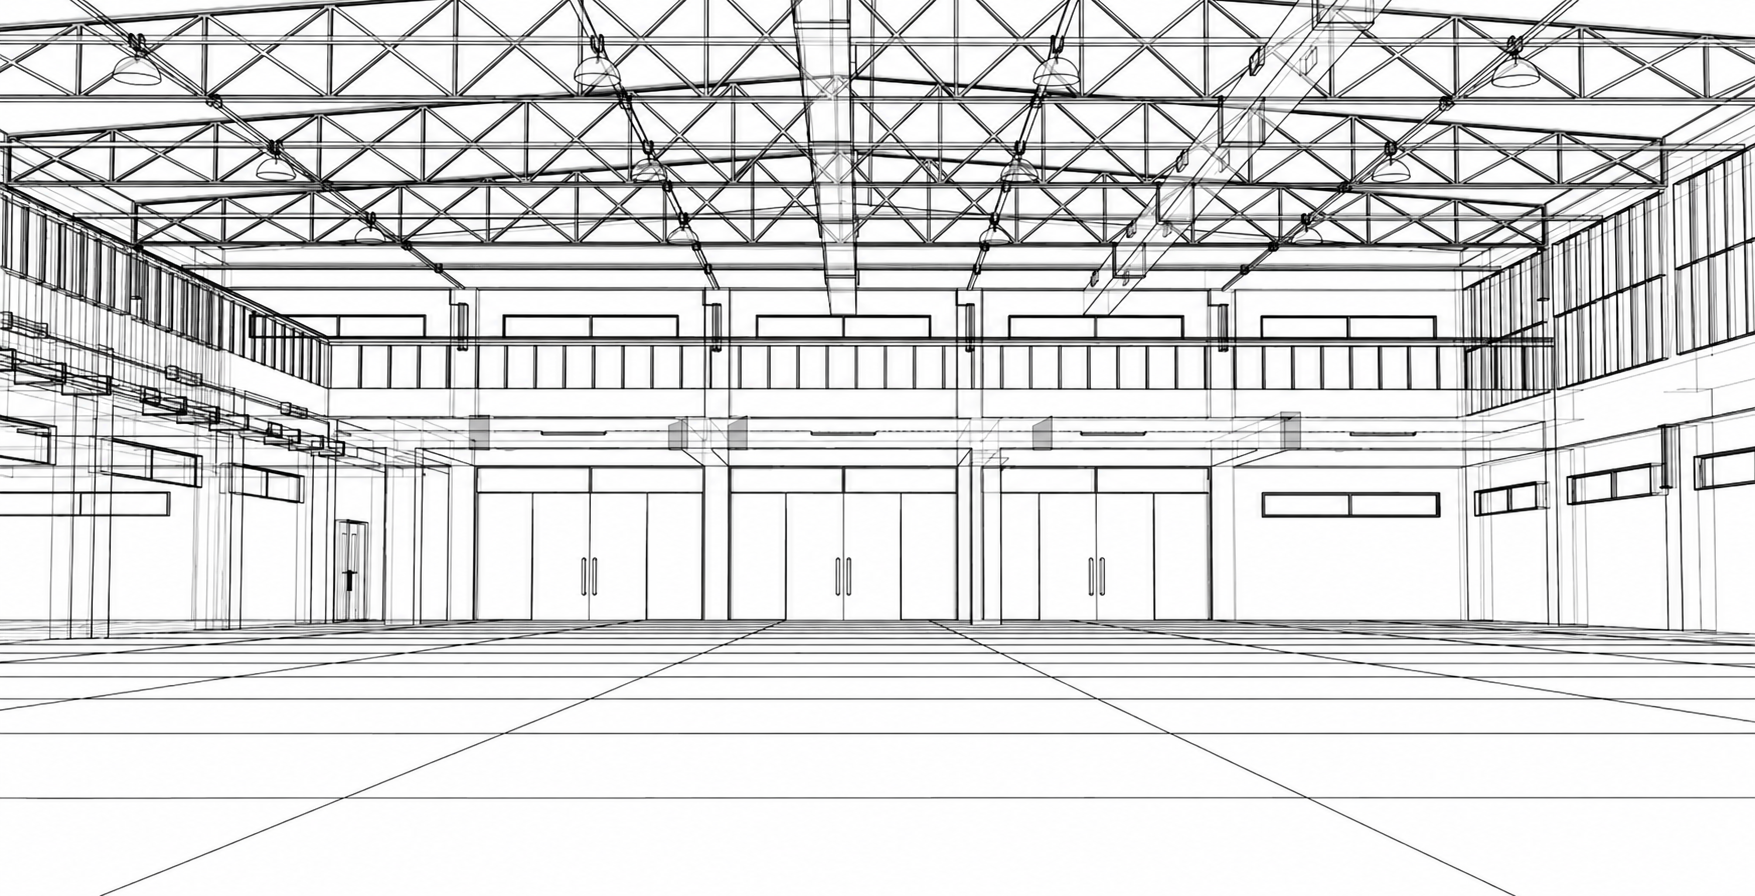
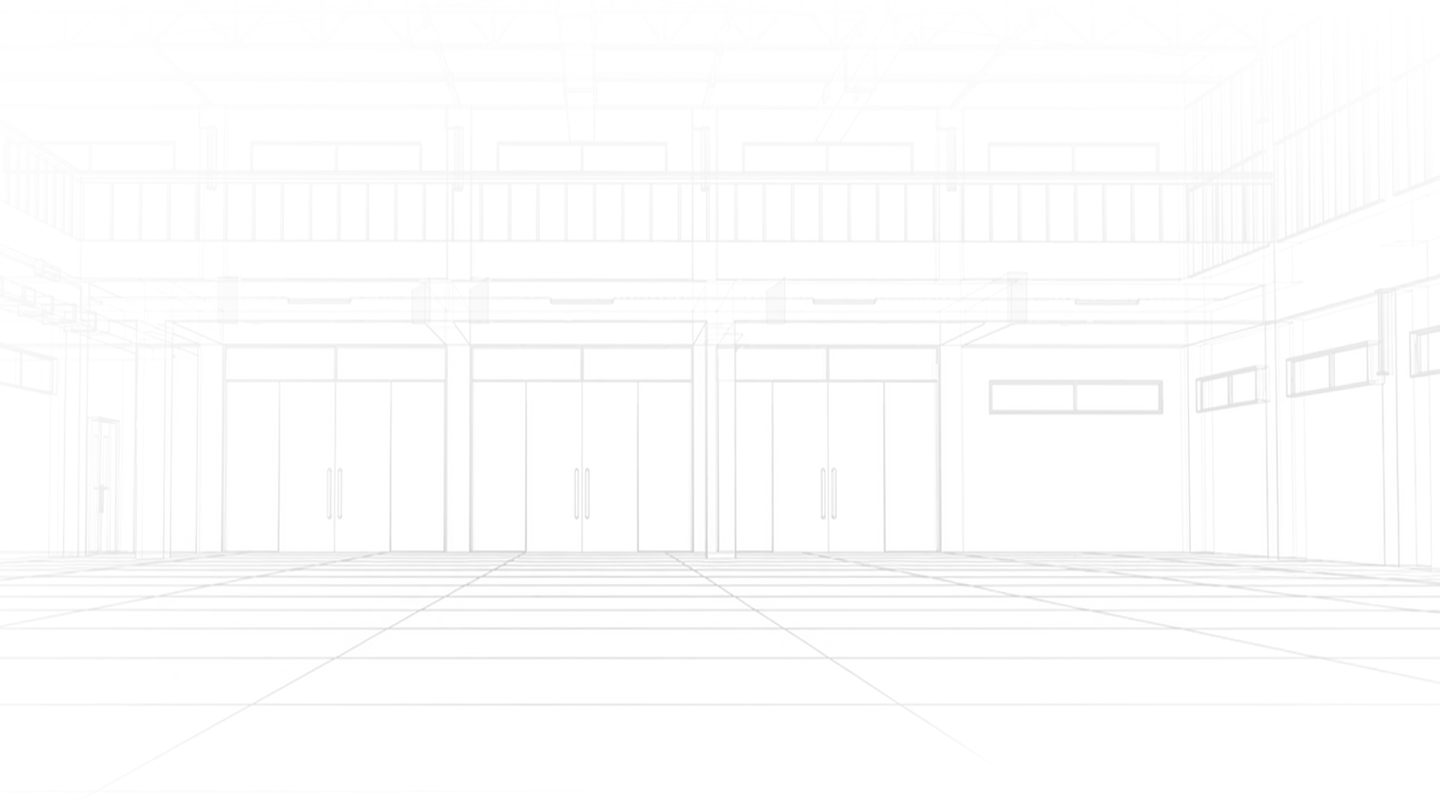
feat: implement ProductSeriesCard component and update ProductHeroSlider with new images

diff --git a/app/components/products/ProductHeroSlider.tsx b/app/components/products/ProductHeroSlider.tsx
@@ -12,32 +12,32 @@ const heroSlides = [
     id: "lift",
     title: "Robots Ready to",
     accent: "Lift",
-    image: "PSR-1000R_1.png",
-    imageClass: "scale-[1.05] -translate-x-[3%] md:translate-x-[3%]",
+    image: "lift.png",
+    imageClass: "scale-[1] -translate-x-[3%] md:translate-x-[3%]",
     tags: ["Ready to Lift", "Lifting"],
   },
   {
     id: "pull",
     title: "Robots Ready to",
     accent: "Pull",
-    image: "hero-image-2.png",
-    imageClass: "scale-[1.24] translate-x-[4%] md:translate-x-[10%]",
+    image: "pull.png",
+    imageClass: "scale-[1] translate-x-[4%] md:translate-x-[10%]",
     tags: ["Ready to Pull", "Pulling"],
   },
   {
     id: "grasp",
     title: "Robots Ready to",
     accent: "Grasp",
-    image: "Group-1321315879.png",
-    imageClass: "scale-[1.42] translate-x-[9%] md:translate-x-[15%]",
+    image: "grab.png",
+    imageClass: "scale-[1] translate-x-[9%] md:translate-x-[15%]",
     tags: ["Ready to Grasp", "Grasping"],
   },
   {
     id: "move",
     title: "Robots Ready to",
     accent: "Move",
-    image: "hero-image-4.png",
-    imageClass: "scale-[1.22] translate-x-[3%] md:translate-x-[9%]",
+    image: "move.png",
+    imageClass: "scale-[1] translate-x-[3%] md:translate-x-[9%]",
     tags: ["Ready to Move", "Moving"],
   },
 ];
@@ -52,27 +52,38 @@ const defaultProductHeroTagPositions: ProductHeroTagPosition[] = [
   { left: "62%", top: "58%" },
 ];
 
-const productHeroTagPositionsBySlide: Record<string, Record<string, ProductHeroTagPosition>> = {
+const productHeroTagPositionsBySlide: Record<
+  string,
+  Record<string, ProductHeroTagPosition>
+> = {
   lift: {
     "Ready to Lift": { left: "54%", top: "64%" },
-    "Lifting": { left: "42%", top: "35%" },
+    Lifting: { left: "42%", top: "35%" },
   },
   pull: {
     "Ready to Pull": { left: "52%", top: "65%" },
-    "Pulling": { left: "30%", top: "35%" },
+    Pulling: { left: "30%", top: "35%" },
   },
   grasp: {
     "Ready to Grasp": { left: "52%", top: "48%" },
-    "Grasping": { left: "49%", top: "5%" },
+    Grasping: { left: "49%", top: "5%" },
   },
   move: {
     "Ready to Move": { left: "5%", top: "54%" },
-    "Moving": { left: "68%", top: "68%" },
+    Moving: { left: "68%", top: "68%" },
   },
 };
 
-function getProductHeroTagPosition(slideId: string, tag: string, index: number): ProductHeroTagPosition {
-  return productHeroTagPositionsBySlide[slideId]?.[tag] ?? defaultProductHeroTagPositions[index] ?? defaultProductHeroTagPositions[0];
+function getProductHeroTagPosition(
+  slideId: string,
+  tag: string,
+  index: number,
+): ProductHeroTagPosition {
+  return (
+    productHeroTagPositionsBySlide[slideId]?.[tag] ??
+    defaultProductHeroTagPositions[index] ??
+    defaultProductHeroTagPositions[0]
+  );
 }
 
 export function ProductHeroSlider() {
@@ -98,8 +109,13 @@ export function ProductHeroSlider() {
   }, []);
 
   return (
-    <section className="bg-[#fafafa]">
-      <div className="site-container grid min-h-[calc(100svh-60px)] items-center gap-8 py-12 md:min-h-[calc(100svh-110px)] md:grid-cols-2 md:py-16">
+    <section
+      // className="bg-[#fafafa]"
+      style={{
+        backgroundImage: `url('${imagePath}/products/hero-bg.png')`,
+      }}
+    >
+      <div className="site-container grid  items-center gap-8 py-12  md:grid-cols-2 md:py-16">
         <div>
           <ScrollReveal>
             <h1 className="text-[48px] font-bold leading-[1.06] tracking-tight md:text-[60px] xl:whitespace-nowrap">
@@ -164,7 +180,7 @@ export function ProductHeroSlider() {
           </div>
         </div>
 
-        <div className="relative min-h-[430px] md:min-h-[560px] xl:min-h-[620px] w-full">
+        <div className="relative min-h-[430px] md:min-h-[500px] xl:min-h-[520px] w-full">
           <AnimatePresence mode="popLayout" initial={false}>
             <m.div
               key={active.image}
@@ -175,12 +191,12 @@ export function ProductHeroSlider() {
               transition={{ duration: 0.56, ease: [0.22, 1, 0.36, 1] }}
             >
               <Image
-                src={`${imagePath}${active.image}`}
+                src={`${imagePath}products/${active.image}`}
                 alt={`${active.title} ${active.accent}`}
                 fill
                 priority={activeIndex === 0}
-                sizes="(max-width: 768px) 100vw, 780px"
-                className={`object-contain object-right drop-shadow-[0_26px_40px_rgba(1,31,64,.14)] p-6 ${active.imageClass}`}
+                sizes="(max-width: 520px) 50vw, 520px"
+                className={`object-contain object-bottom-right drop-shadow-[0_26px_40px_rgba(1,31,64,.14)] p-6 ${active.imageClass}`}
               />
               <div className="pointer-events-none absolute inset-0 z-20">
                 {active.tags.map((tag, index) => (

diff --git a/app/components/products/ProductSeriesCard.tsx b/app/components/products/ProductSeriesCard.tsx
@@ -1,0 +1,69 @@
+import { ArrowRight } from "lucide-react";
+import Image from "next/image";
+import { imagePath } from "../home/assets";
+import { seriesCards } from "./product-series-data";
+
+function ProductSeriesCard() {
+  return (
+    <section className="bg-white py-12">
+      <div className="site-container">
+        <div className="grid gap-5 md:grid-cols-3">
+          {seriesCards.map((series) => (
+            <article
+              key={series.title}
+              className="relative min-h-[250px] overflow-hidden rounded-md bg-[#011f40] p-5 text-white md:min-h-[285px]"
+            >
+              <Image
+                src={`${imagePath}${series.backgroundImage}`}
+                alt=""
+                fill
+                sizes="(max-width: 768px) 100vw, 33vw"
+                className="object-cover"
+              />
+              <div className="absolute inset-0 bg-black/45" />
+              <div className="absolute inset-0 bg-[linear-gradient(180deg,rgba(0,0,0,.72),rgba(0,0,0,.18)_58%,rgba(0,0,0,.42))]" />
+              <div className="relative z-10 flex min-h-[210px] flex-col items-start md:min-h-[245px]">
+                <h3 className="text-[22px] font-semibold leading-[1.15]">
+                  {series.title}
+                </h3>
+                <p className="mt-2 line-clamp-3 max-w-[300px] text-[11px] font-normal leading-[15px] text-white/86">
+                  {series.copy}
+                </p>
+                <div className="mt-3 flex flex-wrap gap-1.5">
+                  {series.tags.map((tag) => (
+                    <span
+                      key={tag}
+                      className="rounded-sm bg-white px-3 py-1 text-[11px] font-medium leading-none text-[#011f40]"
+                    >
+                      {tag}
+                    </span>
+                  ))}
+                </div>
+                <a
+                  href={series.href}
+                  className="group mt-auto inline-flex h-8 items-center gap-2 rounded-sm bg-[#005ead] px-3 text-[10px] font-medium uppercase tracking-wide text-white transition hover:bg-[#014f91]"
+                >
+                  Explore
+                  <span className="relative flex size-3 overflow-hidden">
+                    <ArrowRight
+                      aria-hidden="true"
+                      className="size-3 transition group-hover:translate-x-4"
+                      strokeWidth={2}
+                    />
+                    <ArrowRight
+                      aria-hidden="true"
+                      className="absolute size-3 -translate-x-4 transition group-hover:translate-x-0"
+                      strokeWidth={2}
+                    />
+                  </span>
+                </a>
+              </div>
+            </article>
+          ))}
+        </div>
+      </div>
+    </section>
+  );
+}
+
+export default ProductSeriesCard;

diff --git a/app/components/products/ProductSeriesStickyStack.tsx b/app/components/products/ProductSeriesStickyStack.tsx
@@ -13,36 +13,7 @@ import {
 import Image from "next/image";
 import { useRef, useState } from "react";
 import { imagePath } from "../home/assets";
-
-const seriesCards = [
-  {
-    index: "01",
-    title: "PSR Series",
-    copy: "Our PSR series automates pallet stacking, pallet transport, and trolley movement for warehouse automation for improved inventory visibility, operational efficiency, productivity, and intralogistics performance.",
-    tags: ["Stacking", "G2G"],
-    backgroundImage: "psr-main.png",
-    href: "/psr-series",
-    marker: "PSR",
-  },
-  {
-    index: "02",
-    title: "AR Series",
-    copy: "Our AR Series automates diverse applications through one platform and multiple top modules.",
-    tags: ["Tugging", "Lifting", "Tunneling"],
-    backgroundImage: "PSR-Series.jpg",
-    href: "/ar-series",
-    marker: "AR",
-  },
-  {
-    index: "03",
-    title: "AGV Series",
-    copy: "Our AGV Series streamlines point-to-point material transport through compact, QR-guided automation.",
-    tags: ["Lifting", "Sorting"],
-    backgroundImage: "AGV.jpg",
-    href: "/agv-series",
-    marker: "AGV",
-  },
-];
+import { seriesCards } from "./product-series-data";
 
 export function ProductSeriesStickyStack() {
   const wrapperRef = useRef<HTMLDivElement>(null);

diff --git a/app/products/page.tsx b/app/products/page.tsx
@@ -2,11 +2,8 @@ import type { Metadata } from "next";
 import { ProductFaqSection } from "../components/products/ProductFaqSection";
 import { ProductFeaturesSection } from "../components/products/ProductFeaturesSection";
 import { ProductHeroSlider } from "../components/products/ProductHeroSlider";
-import {
-  ProductSeriesStaticMobile,
-  ProductSeriesStickyStack,
-} from "../components/products/ProductSeriesStickyStack";
 import { ProductsCta } from "../components/products/ProductsCta";
+import ProductSeriesCard from "../components/products/ProductSeriesCard";
 
 export const metadata: Metadata = {
   title: "Products | ANSCER Robotics",
@@ -21,8 +18,9 @@ export default function ProductsPage() {
       {/* <SmartNavigationSection /> */}
       <ProductFeaturesSection />
       <div id="robot-series">
-        <ProductSeriesStaticMobile />
-        <ProductSeriesStickyStack />
+        {/* <ProductSeriesStaticMobile /> */}
+        {/* <ProductSeriesStickyStack /> */}
+        <ProductSeriesCard />
       </div>
       <ProductFaqSection />
       <ProductsCta />

diff --git a/app/components/products/product-series-data.ts b/app/components/products/product-series-data.ts
@@ -1,0 +1,29 @@
+export const seriesCards = [
+  {
+    index: "01",
+    title: "PSR Series",
+    copy: "Our PSR series automates pallet stacking, pallet transport, and trolley movement for warehouse automation for improved inventory visibility, operational efficiency, productivity, and intralogistics performance.",
+    tags: ["Stacking", "G2G"],
+    backgroundImage: "psr-main.png",
+    href: "/psr-series",
+    marker: "PSR",
+  },
+  {
+    index: "02",
+    title: "AR Series",
+    copy: "Our AR Series automates diverse applications through one platform and multiple top modules.",
+    tags: ["Tugging", "Lifting", "Tunneling"],
+    backgroundImage: "PSR-Series.jpg",
+    href: "/ar-series",
+    marker: "AR",
+  },
+  {
+    index: "03",
+    title: "AGV Series",
+    copy: "Our AGV Series streamlines point-to-point material transport through compact, QR-guided automation.",
+    tags: ["Lifting", "Sorting"],
+    backgroundImage: "AGV.jpg",
+    href: "/agv-series",
+    marker: "AGV",
+  },
+];
